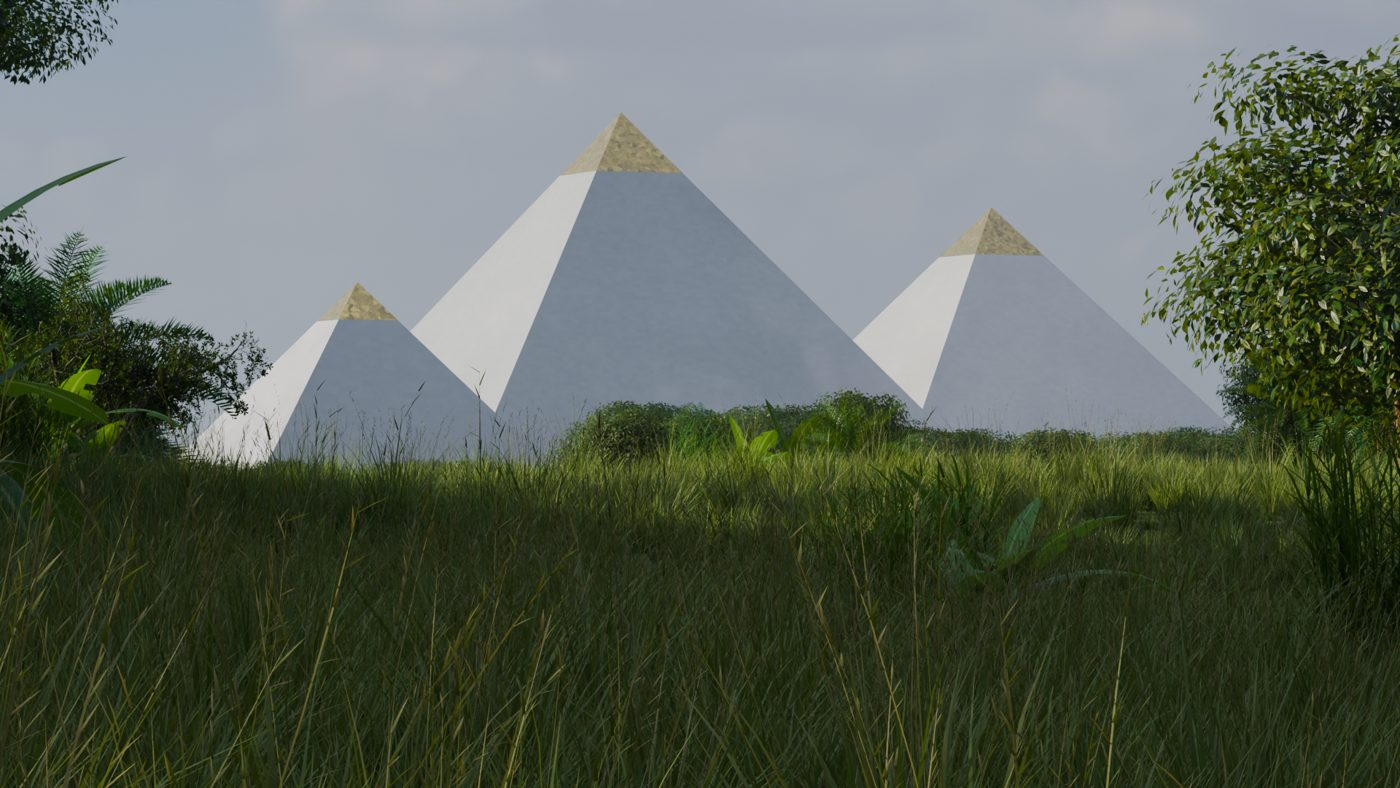
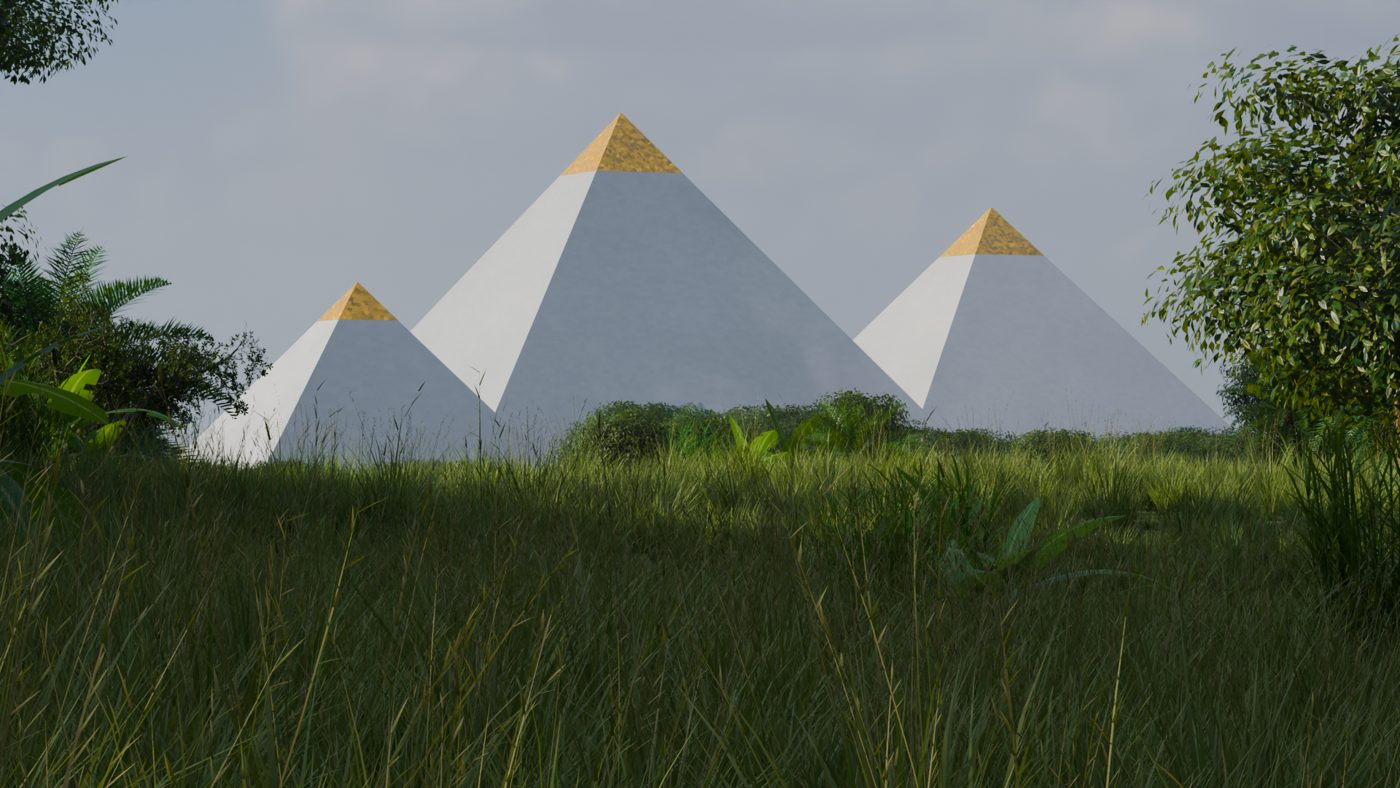
The First Time re-rendered with its gold caps; the tour's text tightened; the About page names the tour

Changed region(s): [[0.3993, 0.1523, 0.4914, 0.2437], [0.6757, 0.2741, 0.7371, 0.335], [0.215, 0.3655, 0.2764, 0.4264]]

diff --git a/apps/walk/rethink.html b/apps/walk/rethink.html
@@ -160,6 +160,7 @@
     <h2>Since the first station</h2>
     <p>The same evening, the walkthrough grew into this:</p>
     <ul>
+      <li><strong>The guided tour.</strong> <a href="index.html#tour/1">The case for an older Giza</a>, in nine stops: the Sphinx's rain weathering, its head, the valley temple's megaliths, the lion and Leo, Orion's belt on the ground with its stars drawn over the night sky, the shafts, the Earth-scale numbers, and the Younger Dryas. Each stop moves the view and runs the eras, with the project's own figures beside the argument.</li>
       <li><strong>Five eras on one timeline.</strong> The First Time, c.&nbsp;10,500&nbsp;BCE, drawn as the lost-civilisation claim describes it at its strongest: an unknown people's work, the pyramids pristine under a polish no Old Kingdom mason matched, electrum at their tips, the lion Sphinx facing its constellation, and a humid, forested green Sahara under towering cloud. The long rains, c.&nbsp;7000&nbsp;BCE, also a claim: the same stone streaked by millennia of rain, the lion weathered as Schoch reads the Sphinx's ditch. Khufu's Giza, c.&nbsp;2560&nbsp;BCE, which the claim reads as the Egyptians' restoration of what they inherited and the mainstream as their building of it: an ivory casing that shows its age, with gold and electrum caps, enclosure walls, dressed mastabas, the roofed causeway, the red granite temples, the harbour with its quay and boats, and the Wall of the Crow. The plateau of c.&nbsp;1800, the Sphinx buried to its chest. And today.</li>
       <li><strong>Seventeen stations.</strong> Among them a papyrus raft on the harbour, the court of Khufu's mortuary temple, the Eastern Cemetery, Menkaure with his granite casing and three queens, a close view of the Sphinx's face in each of its forms, the main street of the builders' town, the granite hall of Khafre's valley temple, and four inside the Great Pyramid: the Grand Gallery, the King's Chamber with the coffer where Petrie found it, the Queen's Chamber with its corbelled niche, and the unfinished subterranean chamber cut into the bedrock, all from his interior survey.</li>
       <li><strong>People.</strong> Men on the quay and priests in the temple court as built, and visitors today: figures generated for the project and labelled as look choices, not portraits of anyone.</li>
@@ -167,7 +168,7 @@
       <li><strong>Khafre's granite hall.</strong> Inside the valley temple, as built and as it stands today: the T-shaped hall of red granite with its sixteen pillars, its size from Petrie's plan and text of 1883 and its place in the temple from Hölscher's of 1912, which agree to a centimetre. It is lit as it was, by the glow its wall slits let down from the roof and the daylight at the end of the passage east, on an alabaster floor. Twenty-three seated Khafres stand along the walls where Hölscher found the statues' sockets: one museum scan, labelled a stand-in, drawn for all of them. Today the roof is gone and the sun comes in, and six of the beams are missing, as Petrie found them.</li>
       <li><strong>Orion over Giza.</strong> The night of 10,450&nbsp;BCE, the date the claim gives. The project's own sky engine precesses every star to that epoch, and Orion's belt barely clears the horizon between Khufu and Khafre. The as-built night is 2450&nbsp;BCE, with the belt high in the south.</li>
       <li><strong>The builders' town.</strong> South of the Wall of the Crow as built: blocks of galleries, the walled granaries and the houses of the town the crews lived in, an impression after the layout AERA has published from its excavations, with a station in its main street.</li>
-      <li><strong>Films.</strong> On the <a href="https://claude.ai/artifact/6si9SFFKc5drsxbpzdhfBN">Films</a> page: the rollback from today to the First Time, the Sphinx's sequence from the Anubis of the claim to the statue of today, a flight in to Menkaure as built, a low pass over the First Time's flood to the Anubis Sphinx, a lamplit climb up the Grand Gallery, and the night sky rolling back twelve and a half thousand years.</li>
+      <li><strong>Films.</strong> On the <a href="https://claude.ai/artifact/6si9SFFKc5drsxbpzdhfBN">Films</a> page: the rollback from today to the First Time, the Sphinx's sequence from the lion of the First Time to the statue of today, a flight in to Menkaure as built, a low pass over the First Time's flood to the Anubis Sphinx, a lamplit climb up the Grand Gallery, and the night sky rolling back twelve and a half thousand years.</li>
     </ul>
   </div>
 
